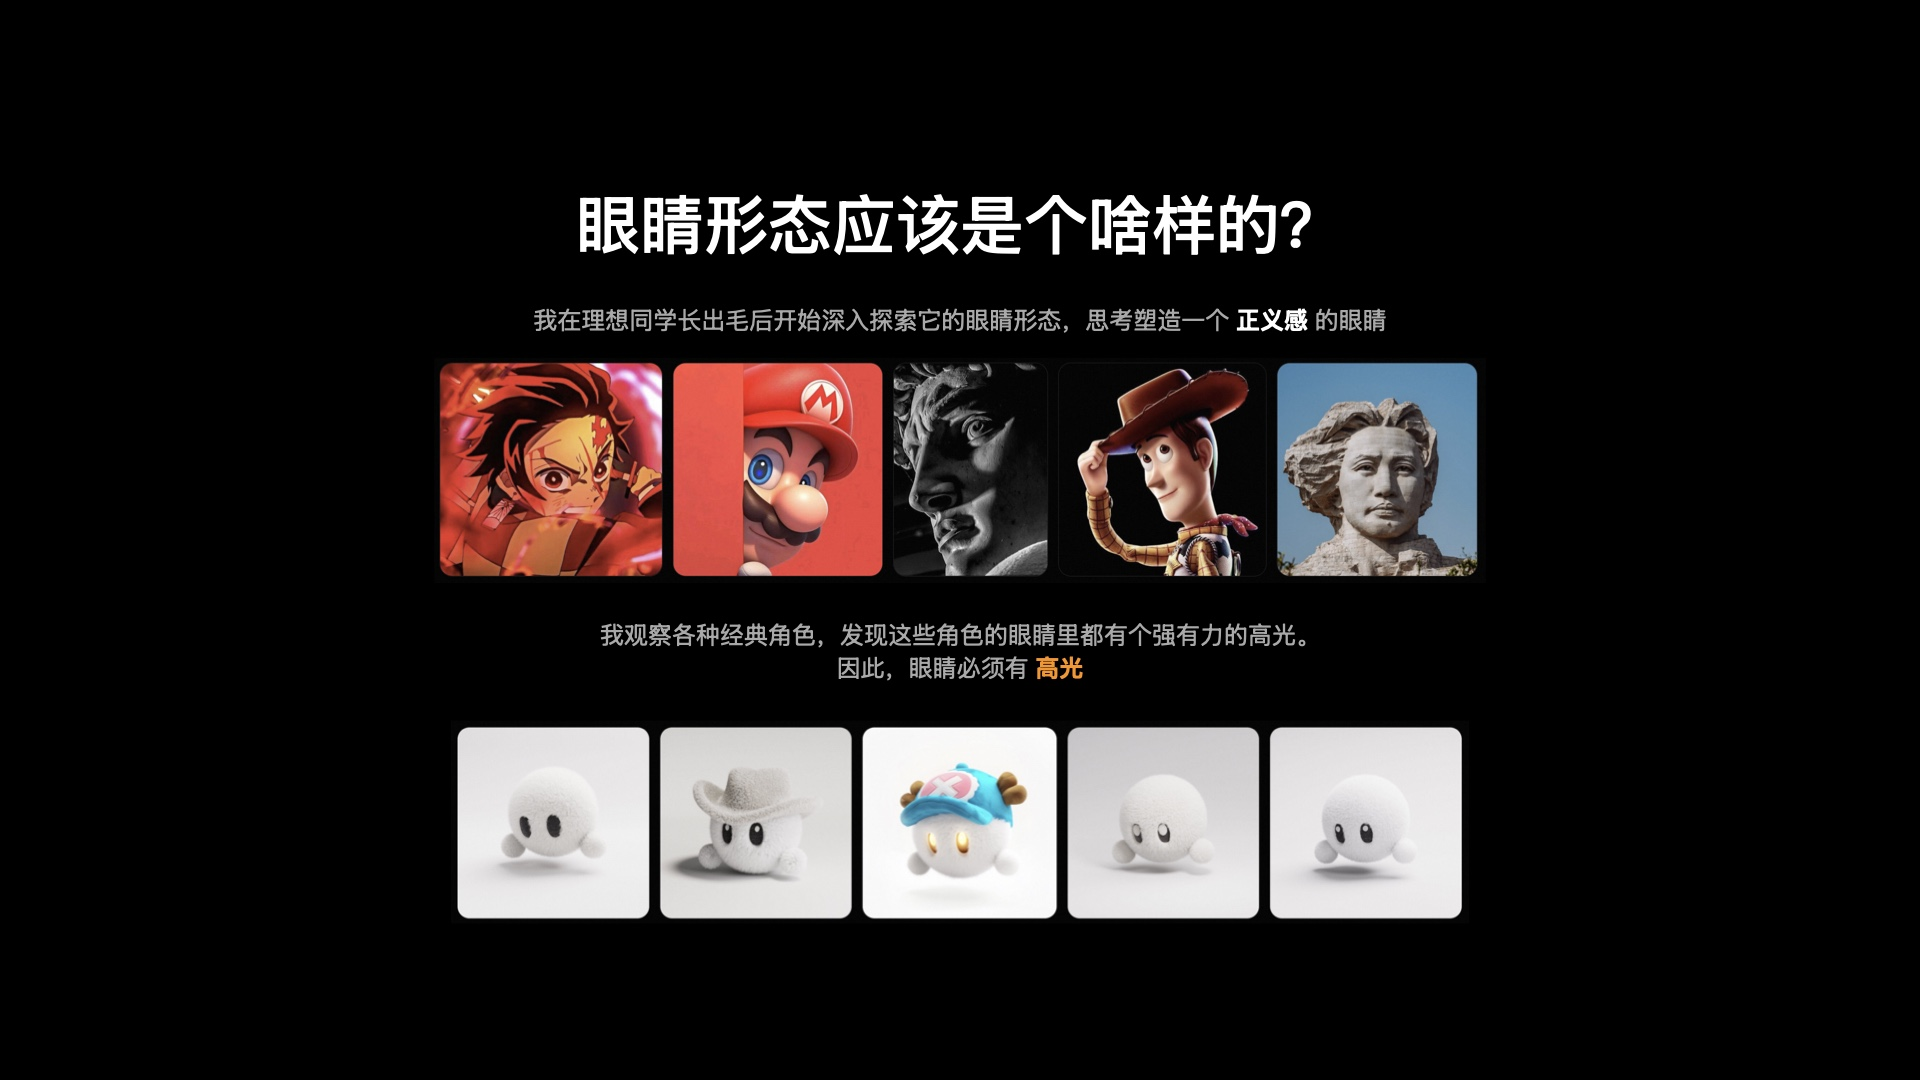
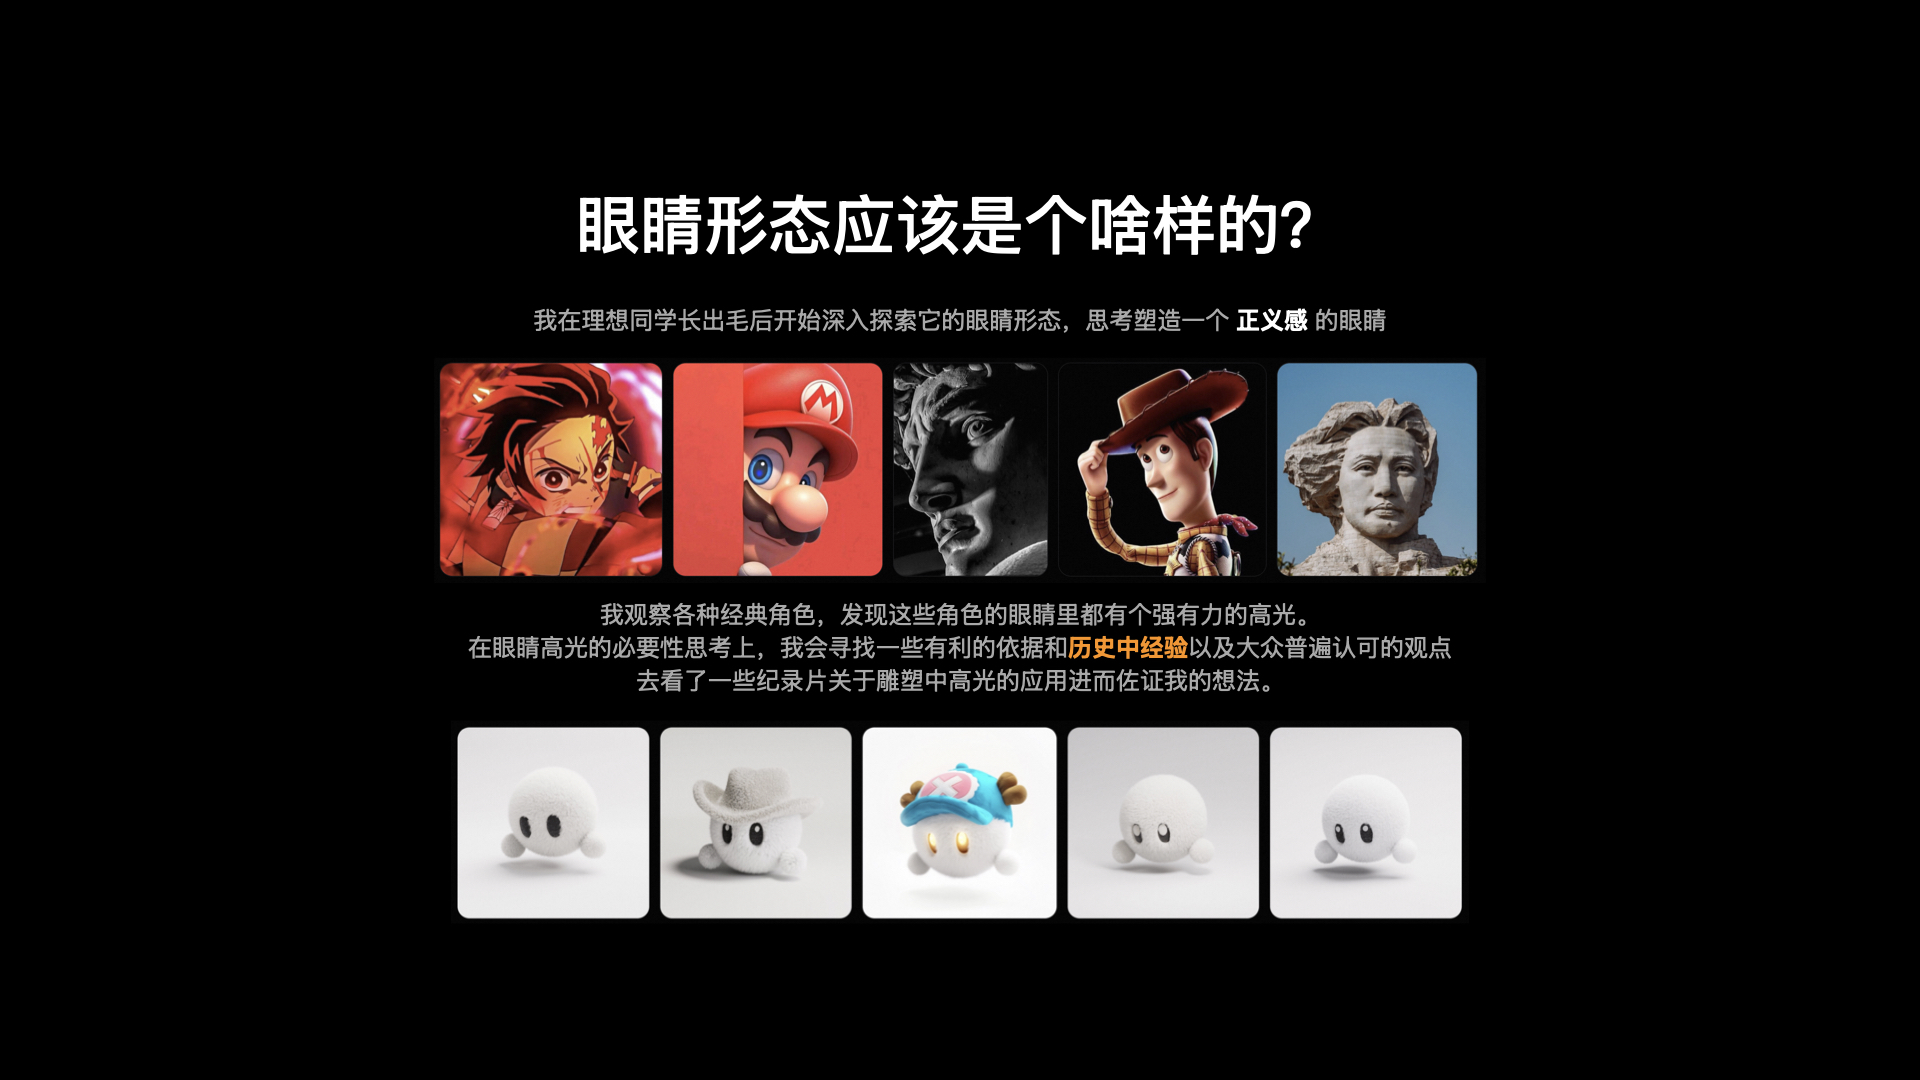
update keynote page text

Changed region(s): [[0.25, 0.55, 0.75, 0.6417]]

diff --git a/src/App.jsx b/src/App.jsx
@@ -1063,12 +1063,12 @@ const keynoteProcessSlides = {
     variant: "full-slide",
     background: "notext",
     title: "同期复杂项目如何保证交付？",
-    subtitle: "OTA7.4随着理想同学全新形象一起同期推出的产品还有  理想同学中心  和  4o小同桌",
+    subtitle: "OTA7.4随着理想同学全新形象一起同期推出的产品还有  理想同学中心  和  4o小同桌\n除了加班加点还有什么方式能提效是我需要解决的",
     textLayers: [
       textLayer("title", "同期复杂项目如何保证交付？", [24, 4.8, 52, 9.5]),
-      textLayer("subtitle", "OTA7.4随着理想同学全新形象一起同期推出的产品还有  理想同学中心  和  4o小同桌", [18, 15.2, 64, 4.8]),
-      textLayer("caption", "4o小同桌 可交互动图资源共计  378段动画资源", [21.2, 76.4, 31, 4.5]),
-      textLayer("caption", "理想同学中心共计  214段动画资源", [60.2, 76.4, 29, 4.5]),
+      textLayer("subtitle", "OTA7.4随着理想同学全新形象一起同期推出的产品还有  理想同学中心  和  4o小同桌\n除了加班加点还有什么方式能提效是我需要解决的", [26.2, 14.7, 47.6, 6.6], { highlightTerms: ["理想同学中心", "4o小同桌"] }),
+      textLayer("caption", "4o小同桌 可交互动画资源共计  378段动画资源", [20.1, 78.9, 33, 4.5], { highlightTerms: ["4o小同桌", "378段动画资源"] }),
+      textLayer("caption", "理想同学中心共计  214段动画资源", [66.2, 78.9, 30, 4.5], { highlightTerms: ["214段动画资源"] }),
     ],
   },
   "14": {
@@ -1078,13 +1078,14 @@ const keynoteProcessSlides = {
     subtitle: "随着理想同学全新形象上线，需要确保一个月内将近 600段 的资源素材产出\n我负责把控整个项目节奏，团队协作中负责 补位协调 。",
     textLayers: [
       textLayer("title", "如何整合资源保障交付？", [27, 5, 46, 9.5]),
-      textLayer("subtitle", "随着理想同学全新形象上线，需要确保一个月内将近 600段 的资源素材产出\n我负责把控整个项目节奏，团队协作中负责 补位协调 。", [29, 14.2, 42, 6.4], { highlightTerms: ["一个月内", "600段", "补位协调"] }),
+      textLayer("subtitle", "随着理想同学全新形象上线，需要确保一个月内将近 600段 的资源素材产出\n我主负责把控整个项目节奏，因为我最了解整个项目的进度以及所有的技术交付，所以我在团队协作中负责 补位协调 。", [18.5, 14.2, 63, 6.4], { highlightTerms: ["一个月内", "600段", "补位协调"] }),
       textLayer("columnTitle", "优先级", [23.4, 71.2, 15, 4.5]),
       textLayer("columnBody", "精力分配\n节省 85%\n保证基础体验\n将精力分配至高频场景", [23.4, 76.3, 18, 13], { highlightTerms: ["节省 85%"] }),
       textLayer("columnTitle", "流程分工", [49.2, 71.2, 18, 4.5]),
-      textLayer("columnBody", "做最擅长的事\n提速 50%\n拆解流程各司其职\n分配动画、建模、交付", [49.2, 76.3, 20, 13], { highlightTerms: ["提速 50%"] }),
+      textLayer("columnBody", "做最擅长的事\n3天变1天\n拆解流程各司其职\n分配动画、建模、交付", [49.2, 76.3, 20, 13], { highlightTerms: ["3天变1天"] }),
       textLayer("columnTitle", "AI提效", [77.5, 71.2, 15, 4.5]),
       textLayer("columnBody", "数字时钟167段素材\n减少 95% 时间\n利用AI编写\n视频切分压缩脚本", [77.5, 76.3, 21, 13], { highlightTerms: ["减少 95% 时间"] }),
+      textLayer("subtitle", "团队中没有人会毛绒角色的建模，所以我在该项目中负责将所有的精力用在模型制作上，包括理想同学中心和4o的形象。\n动画部分，我将交付结构和动画模版分出去。", [18, 93, 64, 5.5]),
     ],
   },
   "15": {
@@ -1096,10 +1097,14 @@ const keynoteProcessSlides = {
     variant: "full-slide",
     background: "notext",
     title: "AI实战怎么应用？",
-    subtitle: "AI不是替代设计判断，而是把探索、筛选、验证和批量处理放进真实项目流程里",
+    subtitle: "我在不断探索 Ai能力边界、AI生图当前阶段的最大问题就是 成功率 影响效率。",
     textLayers: [
       textLayer("title", "AI实战怎么应用？", [31, 5, 38, 9.5]),
-      textLayer("subtitle", "AI不是替代设计判断，而是把探索、筛选、验证和批量处理放进真实项目流程里", [23, 15.5, 54, 5]),
+      textLayer("subtitle", "我在不断探索 Ai能力边界、AI生图当前阶段的最大问题就是 成功率 影响效率。", [28, 15.5, 44, 5], { highlightTerms: ["Ai能力边界", "成功率"] }),
+      textLayer("columnTitle", "批量工作流", [27.6, 76.3, 18, 4.5]),
+      textLayer("columnBody", "通过API调用定制化生图工作流\n生图和视频效率\n提升 50%\n正向生图成功率和生图时间是损耗\n但是逆向筛选就能快很多", [27.6, 81.3, 24, 14], { highlightTerms: ["提升 50%"] }),
+      textLayer("columnTitle", "应用", [69.8, 76.3, 12, 4.5]),
+      textLayer("columnBody", "春节形象设计、app首页场景\n减少 90% 时间\n在一个方向上\n用海量资源中去做筛选好的形态", [69.8, 81.3, 24, 14], { highlightTerms: ["减少 90% 时间"] }),
     ],
   },
   "17": {
@@ -1170,9 +1175,9 @@ const keynoteProcessSlides = {
     subtitle: "围绕迎宾、眼皮、呼吸灯和情绪状态，探索车端眼睛的形态边界",
     textLayers: [
       textLayer("title", "车如果有眼睛应该长啥样？", [22, 5, 56, 9.5]),
-      textLayer("subtitle", "OC项目是需要做一个舱外的眼睛，如果只能做一个眼睛，那这个眼睛应该长啥样？\n我需要拆解流程分步去做这件事", [26.5, 16.2, 47, 6.5]),
+      textLayer("subtitle", "OC项目是需要做一个舱外的眼睛，如果只能做一个眼睛，那这个眼睛应该长啥样？\n我需要拆解流程，分步去思考怎么做这件事", [27, 16.2, 46, 6.5]),
       textLayer("columnTitle", "外形设计", [14, 28.9, 18, 4.5]),
-      textLayer("columnBody", "在合理的形态框架内结合\n硬件边界\n去平衡形态样式\n美式、卡通、日式、皮克斯?", [14, 33.9, 20, 11.5], { highlightTerms: ["硬件边界"] }),
+      textLayer("columnBody", "在合理的形态框架内结合\n硬件边界\n去平衡形态样式\n设计不同的样式去感受\n美式、卡通、日式、皮克斯", [14, 33.9, 20, 14], { highlightTerms: ["硬件边界"] }),
       textLayer("columnTitle", "真实感", [36.1, 28.9, 18, 4.5]),
       textLayer("columnBody", "真实感灵动感设计需要\n面部捕捉\n做数据驱动\n加入最自然的生理状态", [36.1, 33.9, 20, 11.5], { highlightTerms: ["面部捕捉"] }),
       textLayer("columnTitle", "情感表达", [56.1, 28.9, 18, 4.5]),
@@ -1186,10 +1191,10 @@ const keynoteProcessSlides = {
     variant: "full-slide",
     background: "notext",
     title: "如何驱动眼睛？",
-    subtitle: "将注意力系统、状态判断和视觉表现串联起来，让眼睛能跟随场景自然反应",
+    subtitle: "设计注意力系统，用来判断注意力对象。通过摄像头捕捉，获得一个 注意力锚点\n将锚点的坐标传递至驱动器，从而实现注意力观察的效果",
     textLayers: [
       textLayer("title", "如何驱动眼睛？", [32, 5, 36, 9.5]),
-      textLayer("subtitle", "将注意力系统、状态判断和视觉表现串联起来，让眼睛能跟随场景自然反应", [22, 15.5, 56, 5]),
+      textLayer("subtitle", "设计注意力系统，用来判断注意力对象。通过摄像头捕捉，获得一个 注意力锚点\n将锚点的坐标传递至驱动器，从而实现注意力观察的效果", [28, 16.1, 44, 6.5], { highlightTerms: ["注意力系统", "注意力锚点"] }),
     ],
   },
   "25": {
